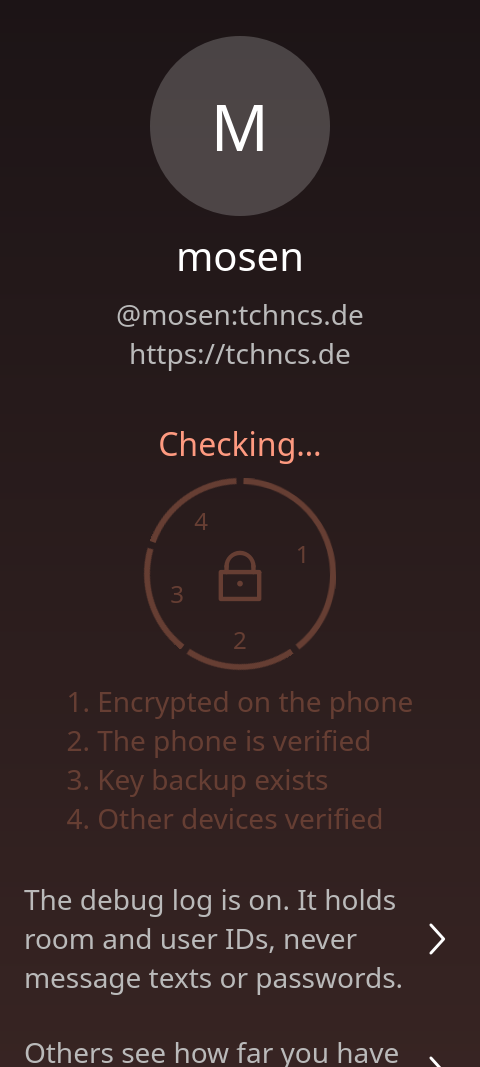
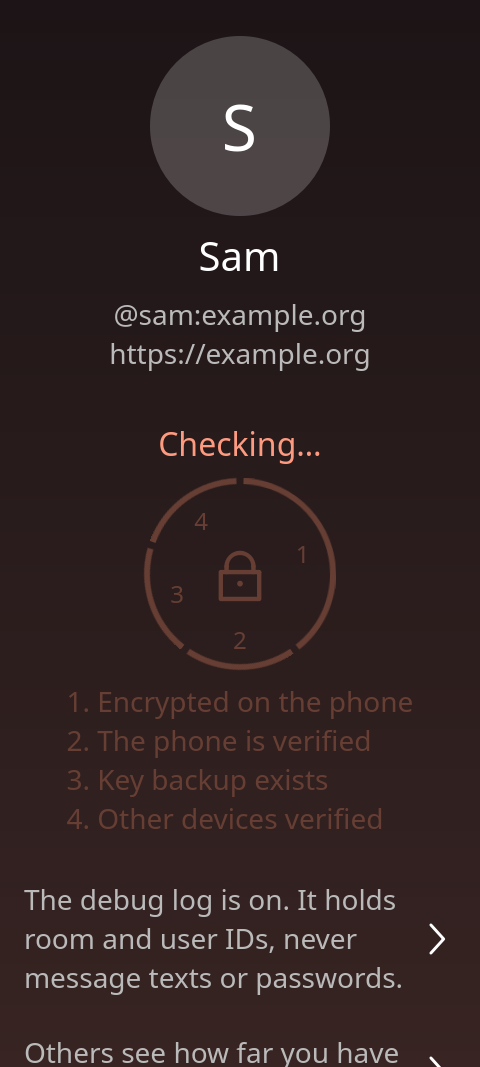
Design mockup: an example account instead of the author's
Disclosure: LLMGD-2 · origin O1 (the author directs and decides; written by an LLM; not yet reviewed by others)
LLMGD: v0.3; assurance=A2; flags=U; origin={O1:1}; origin_headline=O1; scope=docs; graded-by=claude-opus-5-5; retrieval=author-side

Changed region(s): [[0.2188, 0.2165, 0.7812, 0.3402], [0.4375, 0.0928, 0.5625, 0.1546]]

diff --git a/design/security-glance/MockAccount.qml b/design/security-glance/MockAccount.qml
@@ -4,9 +4,9 @@ import QtQuick 2.6
 // What the Account tab reads from Rustrx's core (rustrx.*, app.*,
 // settings.*), as plain properties the mockup's controls set.
 QtObject {
-    property string userId: "@mosen:tchncs.de"
-    property string homeserver: "https://tchncs.de"
-    property string displayName: "mosen"
+    property string userId: "@sam:example.org"
+    property string homeserver: "https://example.org"
+    property string displayName: "Sam"
     // "encrypted", "unencrypted", "no_secrets" or "" (not known yet)
     property string storeState: "encrypted"
     // "verified", "unverified" or ""
